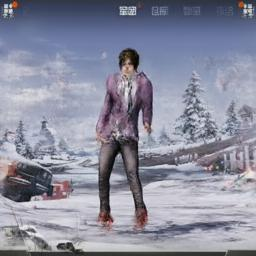
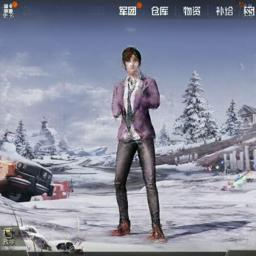
停用normalize

diff --git a/pytorch_pix2pix/pubgPoseFake.py b/pytorch_pix2pix/pubgPoseFake.py
@@ -224,9 +224,9 @@ def openpose(input_image, params, model_params, pose_scale=(1.0, 1.0)):
             # cv2.circle(poseFrame, all_peaks[i][j][0:2], 4, colors[i], thickness=-1)
             keypoints.append(all_peaks[i][j][0:2])
 
-    keypoints = normalize(keypoints, pose_scale)
+    # keypoints = normalize(keypoints, pose_scale)
     for i in range(len(keypoints) if len(keypoints) < 18 else 18):
-            cv2.circle(poseFrame, keypoints[i], 4, colors[i], thickness=-1)
+        cv2.circle(poseFrame, keypoints[i], 4, colors[i], thickness=-1)
 
     # draw 17 parts of a body
     stickwidth = 4
@@ -249,9 +249,9 @@ def openpose(input_image, params, model_params, pose_scale=(1.0, 1.0)):
                                        360, 1)
             cv2.fillConvexPoly(poseFrame, polygon, colors[i])
             # poseFrame = cv2.addWeighted(poseFrame, 0.4, cur_poseFrame, 0.6, 0)
-    poseFrame, pose_radius = move_pose_center(input_image.shape, poseFrame)
+    # poseFrame, pose_radius = move_pose_center(input_image.shape, poseFrame)
     # 记录pose半径
-    record_logs('> pose_radius = {:.3f}'.format(pose_radius))
+    # record_logs('> pose_radius = {:.3f}'.format(pose_radius))
 
     return poseFrame
 

diff --git a/README.md b/README.md
@@ -140,6 +140,8 @@
 
 ## pytorch-pix2pix
 
+`pubgPoseFake.py`是OpenPose针对pix2pix的接口，用于输入视频提取pose后交给pix2pix进行合成。
+
 reference _[pix2pix README][1]_
 
 ### pubg dataset
